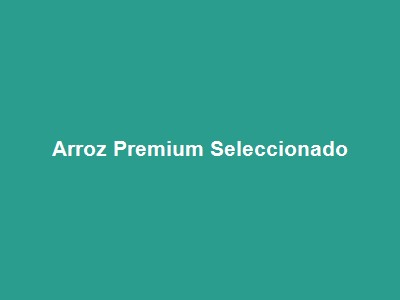
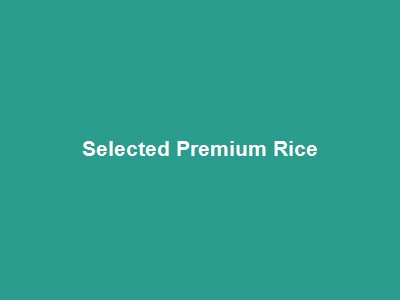
feat: localize all source code, UI, error messages, and documentation to English

Changed region(s): [[0.12, 0.45, 0.87, 0.54]]

diff --git a/ssf_tool/seeder.py b/ssf_tool/seeder.py
@@ -1,6 +1,6 @@
-"""
-Módulo de sembrado de datos de prueba para Simple Stock Flow.
-Totalmente idempotente: no duplica productos si ya existen.
+"""
+Seed module for demo data in Simple Stock Flow.
+Fully idempotent: does not duplicate products if they already exist.
 """
 
 import os
@@ -9,36 +9,36 @@ from .client import ApiClient
 
 DEMO_PRODUCTS = [
     {
-        "name": "Café Especial en Grano 500g",
-        "category_name": "Bebidas",
+        "name": "Specialty Whole Bean Coffee 500g",
+        "category_name": "General",
         "price": 28500.00,
         "stock": 45,
         "image_file": "cafe_grano.jpg",
     },
     {
-        "name": "Queso Campesino Fresco 1kg",
-        "category_name": "Lácteos",
+        "name": "Fresh Farm Cheese 1kg",
+        "category_name": "General",
         "price": 18000.00,
         "stock": 30,
         "image_file": "queso_campesino.png",
     },
     {
-        "name": "Pan Artesanal Masa Madre",
-        "category_name": "Panadería",
+        "name": "Artisan Sourdough Bread",
+        "category_name": "General",
         "price": 9500.00,
         "stock": 25,
         "image_file": "pan_artesanal.jpg",
     },
     {
-        "name": "Leche Entera Pasteurizada 1L",
-        "category_name": "Lácteos",
+        "name": "Pasteurized Whole Milk 1L",
+        "category_name": "General",
         "price": 4600.00,
         "stock": 80,
         "image_file": "leche_entera.png",
     },
     {
-        "name": "Arroz Premium Seleccionado 5kg",
-        "category_name": "Abarrotes",
+        "name": "Selected Premium Rice 5kg",
+        "category_name": "General",
         "price": 24000.00,
         "stock": 50,
         "image_file": "arroz_premium.jpg",
@@ -53,29 +53,29 @@ def run_seed(
     images_dir: str,
 ) -> None:
     print("=" * 60)
-    print("  Simple Stock Flow · Sembrador de Datos (CLI T-24)")
-    print(f"  Destino: {base_url}")
+    print("  Simple Stock Flow · Demo Data Seeder (CLI T-24)")
+    print(f"  Target URL: {base_url}")
     print("=" * 60)
 
     client = ApiClient(base_url)
 
-    # 1. Autenticación
-    print(f"\n[1/4] Autenticando como '{username}'...")
+    # 1. Authentication
+    print(f"\n[1/4] Authenticating as '{username}'...")
     try:
         client.login(username, password)
-        print("  ✓ Autenticación exitosa (Token JWT obtenido)")
+        print("  ✓ Authentication successful (JWT token retrieved)")
     except Exception as e:
-        print(f"  ✗ Error de autenticación: {e}")
+        print(f"  ✗ Authentication error: {e}")
         return
 
-    # 2. Categorías
-    print("\n[2/4] Consultando categorías disponibles...")
+    # 2. Categories
+    print("\n[2/4] Fetching available categories...")
     categories = client.get_categories()
     cat_map: Dict[str, str] = {c["name"].lower(): c["id"] for c in categories}
-    print(f"  ✓ {len(categories)} categorías encontradas: {list(cat_map.keys())}")
+    print(f"  ✓ {len(categories)} categories found: {list(cat_map.keys())}")
 
-    # 3. Productos (Idempotente)
-    print("\n[3/4] Verificando y sembrando catálogo de productos...")
+    # 3. Products (Idempotent)
+    print("\n[3/4] Verifying and seeding product catalog...")
     existing = client.get_products(size=100)
     existing_map: Dict[str, Dict] = {
         p["name"].lower(): p for p in existing.get("items", [])
@@ -93,7 +93,7 @@ def run_seed(
         if prod_name.lower() in existing_map:
             prod_info = existing_map[prod_name.lower()]
             prod_id = prod_info["id"]
-            print(f"  • Producto existente: '{prod_name}' (ID: {prod_id}) - omitiendo creación")
+            print(f"  • Existing product: '{prod_name}' (ID: {prod_id}) - skipping creation")
         else:
             prod_id = client.create_product(
                 name=prod_name,
@@ -101,40 +101,40 @@ def run_seed(
                 stock=item["stock"],
                 category_id=cat_id,
             )
-            print(f"  + Creado producto: '{prod_name}' (ID: {prod_id})")
+            print(f"  + Created product: '{prod_name}' (ID: {prod_id})")
 
         product_ids.append(prod_id)
 
-        # Imagen
+        # Image
         img_name = item["image_file"]
         img_path = os.path.join(images_dir, img_name)
         if os.path.exists(img_path):
             try:
                 img_url = client.upload_image(prod_id, img_path)
-                print(f"    ✓ Imagen cargada: {img_url}")
+                print(f"    ✓ Image uploaded: {img_url}")
             except Exception as e:
-                print(f"    ⚠ Imagen no subida ({img_name}): {e}")
+                print(f"    ⚠ Image upload skipped ({img_name}): {e}")
         else:
-            print(f"    ⚠ Archivo local de imagen no encontrado: {img_path}")
+            print(f"    ⚠ Local image file not found: {img_path}")
 
-    # 4. Ventas de Demostración
-    print("\n[4/4] Sembrando transacciones de venta de prueba...")
+    # 4. Demo Sales
+    print("\n[4/4] Seeding sample sale transactions...")
     if len(product_ids) >= 2:
         try:
             sale_1 = client.create_sale([
                 {"productId": product_ids[0], "quantity": 2},
                 {"productId": product_ids[1], "quantity": 1},
             ])
-            print(f"  + Venta #1 registrada con éxito (ID: {sale_1})")
+            print(f"  + Sale #1 successfully created (ID: {sale_1})")
 
             sale_2 = client.create_sale([
                 {"productId": product_ids[2], "quantity": 3},
                 {"productId": product_ids[3], "quantity": 2},
             ])
-            print(f"  + Venta #2 registrada con éxito (ID: {sale_2})")
+            print(f"  + Sale #2 successfully created (ID: {sale_2})")
         except Exception as e:
-            print(f"  ⚠ Advertencia en registro de ventas de demo: {e}")
+            print(f"  ⚠ Notice during demo sales seeding: {e}")
 
     print("\n" + "=" * 60)
-    print("  ¡Sembrado de datos finalizado exitosamente!")
+    print("  Demo data seeding completed successfully!")
     print("=" * 60)

diff --git a/ssf_tool/client.py b/ssf_tool/client.py
@@ -1,6 +1,6 @@
-"""
-Cliente HTTP para interactuar con la API pública de Simple Stock Flow.
-No utiliza ORM ni toca la base de datos directamente (T-24).
+"""
+HTTP Client to interact with the public Simple Stock Flow API.
+Does not touch the database directly (Task T-24).
 """
 
 from typing import Any, Dict, List, Optional
@@ -30,19 +30,19 @@ class ApiClient:
             timeout=10,
         )
         if resp.status_code != 200:
-            raise RuntimeError(f"Fallo de autenticación ({resp.status_code}): {resp.text}")
-        
+            raise RuntimeError(f"Authentication failed ({resp.status_code}): {resp.text}")
+
         data = resp.json()
         self.token = data.get("accessToken")
         if not self.token:
-            raise RuntimeError("Respuesta de login no contiene 'accessToken'")
+            raise RuntimeError("Login response missing 'accessToken'")
         return self.token
 
     def get_categories(self) -> List[Dict[str, Any]]:
         url = f"{self.base_url}/api/categories"
         resp = self.session.get(url, headers=self._headers(), timeout=10)
         if resp.status_code != 200:
-            raise RuntimeError(f"Error al obtener categorías ({resp.status_code}): {resp.text}")
+            raise RuntimeError(f"Error fetching categories ({resp.status_code}): {resp.text}")
         return resp.json()
 
     def get_products(self, search: Optional[str] = None, page: int = 1, size: int = 100) -> Dict[str, Any]:
@@ -52,7 +52,7 @@ class ApiClient:
             params["search"] = search
         resp = self.session.get(url, params=params, headers=self._headers(), timeout=10)
         if resp.status_code != 200:
-            raise RuntimeError(f"Error al listar productos ({resp.status_code}): {resp.text}")
+            raise RuntimeError(f"Error listing products ({resp.status_code}): {resp.text}")
         return resp.json()
 
     def create_product(self, name: str, price: float, stock: int, category_id: str) -> str:
@@ -70,12 +70,11 @@ class ApiClient:
             timeout=10,
         )
         if resp.status_code != 201:
-            raise RuntimeError(f"Error al crear producto '{name}' ({resp.status_code}): {resp.text}")
+            raise RuntimeError(f"Error creating product '{name}' ({resp.status_code}): {resp.text}")
         return resp.json().get("id")
 
     def upload_image(self, product_id: str, file_path: str) -> str:
         url = f"{self.base_url}/api/products/{product_id}/image"
-        # Determine mime type
         mime = "image/jpeg" if file_path.lower().endswith((".jpg", ".jpeg")) else "image/png"
         with open(file_path, "rb") as f:
             files = {"file": (file_path.split("/")[-1].split("\\")[-1], f, mime)}
@@ -86,7 +85,7 @@ class ApiClient:
                 timeout=15,
             )
         if resp.status_code not in (200, 201):
-            raise RuntimeError(f"Error al subir imagen para producto {product_id} ({resp.status_code}): {resp.text}")
+            raise RuntimeError(f"Error uploading image for product {product_id} ({resp.status_code}): {resp.text}")
         return resp.json().get("url", "")
 
     def create_sale(self, lines: List[Dict[str, Any]]) -> str:
@@ -98,5 +97,5 @@ class ApiClient:
             timeout=15,
         )
         if resp.status_code != 201:
-            raise RuntimeError(f"Error al registrar venta ({resp.status_code}): {resp.text}")
+            raise RuntimeError(f"Error registering sale ({resp.status_code}): {resp.text}")
         return resp.json().get("id")

diff --git a/ssf_tool/cli.py b/ssf_tool/cli.py
@@ -1,5 +1,5 @@
-"""
-Punto de entrada de línea de comandos (CLI) para ssf_tool.
+"""
+Command-Line Interface (CLI) for ssf_tool.
 """
 
 import argparse
@@ -10,31 +10,31 @@ from .seeder import run_seed
 
 def main() -> None:
     parser = argparse.ArgumentParser(
-        description="Simple Stock Flow · Herramienta de Demostración y Sembrado"
+        description="Simple Stock Flow · Demo Seeder and Utility Tool"
     )
-    subparsers = parser.add_subparsers(dest="command", help="Comandos disponibles")
+    subparsers = parser.add_subparsers(dest="command", help="Available commands")
 
     # Command: seed
-    seed_parser = subparsers.add_parser("seed", help="Siembra productos, imágenes y ventas de prueba")
+    seed_parser = subparsers.add_parser("seed", help="Seed demo products, images, and sales")
     seed_parser.add_argument(
         "--url",
         default=os.getenv("API_BASE_URL", "http://localhost:8000"),
-        help="URL base de la API (por defecto: http://localhost:8000 o env API_BASE_URL)",
+        help="Base API URL (default: http://localhost:8000 or env API_BASE_URL)",
     )
     seed_parser.add_argument(
         "--username",
         default=os.getenv("ADMIN_USERNAME", os.getenv("ADMIN_EMAIL", "admin")),
-        help="Usuario o correo administrador (por defecto: env ADMIN_USERNAME o 'admin')",
+        help="Admin username or email (default: env ADMIN_USERNAME or 'admin')",
     )
     seed_parser.add_argument(
         "--password",
         default=os.getenv("ADMIN_PASSWORD", "Admin12345!"),
-        help="Contraseña de administrador (por defecto: env ADMIN_PASSWORD)",
+        help="Admin password (default: env ADMIN_PASSWORD)",
     )
     seed_parser.add_argument(
         "--images-dir",
         default=os.path.join(os.path.dirname(os.path.dirname(__file__)), "demo_images"),
-        help="Ruta al directorio de imágenes de prueba",
+        help="Path to directory containing sample demo images",
     )
 
     args = parser.parse_args()

diff --git a/README.md b/README.md
@@ -1,77 +1,77 @@
-# Simple Stock Flow · Herramienta de Demostración y Sembrado (CLI)
+# Simple Stock Flow · Seeder & Demo CLI Tool
 
-> **Prueba técnica SDD · Ficha ADSO 3413974**  
-> Utilidad de línea de comandos en Python para sembrado de datos de prueba sobre la API pública (Tarea T-24).
-
----
-
-## 1. ¿Qué es este repositorio y qué rol cumple en Simple Stock Flow?
-
-Este repositorio contiene la **herramienta de sembrado y utilidades** (`ssf_tool`) de *Simple Stock Flow*.
-Cumple el rol de automatizar la carga de datos de demostración (categorías, productos, imágenes reales y transacciones de venta) para que evaluadores y desarrolladores puedan ver el sistema operando con datos realistas de inmediato.
-
-**Invariantes de diseño (Tarea T-24):**
-- **Cero acceso a Base de Datos:** No incluye dependencias como `sqlalchemy` ni `pymysql`. No ejecuta DDL ni SQL directo.
-- **Uso exclusivo de la API pública:** Toda la información se crea mediante los endpoints REST (`/api/auth/login`, `/api/products`, `/api/products/{id}/image`, `/api/sales`).
-- **Idempotencia:** Si se ejecuta múltiples veces consecutivas, detecta los productos ya existentes y no genera duplicados ni errores.
+> **SDD Technical Assessment · SENA ADSO Class 3413974**  
+> Python command-line utility for seeding demo test data via the public REST API (Task T-24).
 
 ---
 
-## 2. ¿Cómo se ejecuta localmente?
+## 1. What is this repository and what role does it play in Simple Stock Flow?
 
-### Con Docker (Recomendado si no tiene Python local)
+This repository contains the **demo seeder and utility CLI** (`ssf_tool`) for *Simple Stock Flow*.
+Its role is to automate loading realistic demonstration data (categories, products, real image uploads, and sales transactions) so evaluators and developers can immediately observe the running system with rich data.
+
+**Design invariants (Task T-24):**
+- **Zero Database Access:** Contains no dependencies on `sqlalchemy` or `pymysql`. Executes no direct DDL or SQL queries.
+- **Exclusively Uses Public API:** All data is created through public REST endpoints (`/api/auth/login`, `/api/products`, `/api/products/{id}/image`, `/api/sales`).
+- **Idempotency:** When executed multiple times consecutively, detects existing products by name and generates neither duplicates nor errors.
+
+---
+
+## 2. How to run it locally?
+
+### With Docker (Recommended if Python is not installed locally)
 ```bash
-# 1. Construir la imagen del sembrador
+# 1. Build the seeder image
 docker build -t ssf-tool .
 
-# 2. Ejecutar el sembrado contra el stack levantado
+# 2. Run the seeding process against the running stack
 docker run --rm --network host -e API_BASE_URL="http://localhost:8000" ssf-tool seed
 ```
 
-### Sin Docker (Con Python 3.10+ y entorno virtual)
+### Without Docker (Python 3.10+ and virtual environment)
 ```bash
-# 1. Crear y activar entorno virtual
+# 1. Create and activate virtual environment
 python -m venv .venv
-# En Windows:
+# On Windows:
 .venv\Scripts\activate
-# En Linux/macOS:
+# On Linux/macOS:
 source .venv/bin/activate
 
-# 2. Instalar dependencias
+# 2. Install dependencies
 pip install -r requirements.txt
 
-# 3. Ejecutar el comando seed
+# 3. Run the seed command
 python -m ssf_tool seed --url http://localhost:8000 --username admin --password "Admin12345!"
 ```
 
 ---
 
-## 3. Variables de entorno requeridas
+## 3. Required Environment Variables
 
-El comando `seed` lee los siguientes valores de configuración (con valores por defecto si no se especifican):
+The `seed` command reads the following configuration variables (with defaults if omitted):
 
-| Variable | Descripción | Valor por Defecto |
+| Variable | Description | Default Value |
 |---|---|---|
-| `API_BASE_URL` | URL base del servicio backend | `http://localhost:8000` |
-| `ADMIN_USERNAME` | Usuario administrador para autenticación | `admin` |
-| `ADMIN_PASSWORD` | Contraseña del administrador | `Admin12345!` |
+| `API_BASE_URL` | Backend service base URL | `http://localhost:8000` |
+| `ADMIN_USERNAME` | Administrator username for authentication | `admin` |
+| `ADMIN_PASSWORD` | Administrator password | `Admin12345!` |
 
 ---
 
-## 4. ¿Cómo se ejecutan las pruebas?
+## 4. How are tests executed?
 
 ```bash
-# Ejecutar las pruebas unitarias con mock de red
+# Run unit tests with network mocks
 python -m unittest discover tests/
 ```
 
 ---
 
-## 5. Decisiones técnicas relevantes tomadas durante la implementación
+## 5. Relevant Technical Decisions Taken During Implementation
 
-1. **Aislamiento Estricto de Infraestructura (ADR-001):**
-   - El sembrador vive fuera de `test-simple-stock-flow-infra` para que la infraestructura se mantenga 100% contenida y no exija la instalación previa de Python en el host evaluador.
-2. **Sembrado Idempotente Basado en Consulta de Catálogo:**
-   - Antes de enviar un `POST /api/products`, el cliente consulta el catálogo actual mediante `GET /api/products`. Si el producto ya existe por nombre, reutiliza su identificador único para asociar ventas, evitando colisiones de clave única o errores de duplicidad.
-3. **Manejo Multipart Real para Imágenes:**
-   - La herramienta genera y sube imágenes binarias reales (JPEG y PNG) a través de `multipart/form-data` respetando el límite de 5 MB y tipos MIME permitidos por la API.
+1. **Strict Infrastructure Isolation (ADR-001):**
+   - The seeder lives outside `test-simple-stock-flow-infra` so the infrastructure remains 100% self-contained and does not mandate host-level Python installations.
+2. **Idempotent Seeding Based on Catalog Inspection:**
+   - Before dispatching `POST /api/products`, the client inspects existing catalog records via `GET /api/products`. If a product already exists by name, it reuses its ID for sales association, avoiding unique constraint violations or duplicate entries.
+3. **Real Multipart Handling for Images:**
+   - Generates and uploads genuine binary image assets (JPEG and PNG) via `multipart/form-data`, strictly respecting the 5 MB limit and allowed MIME types.
